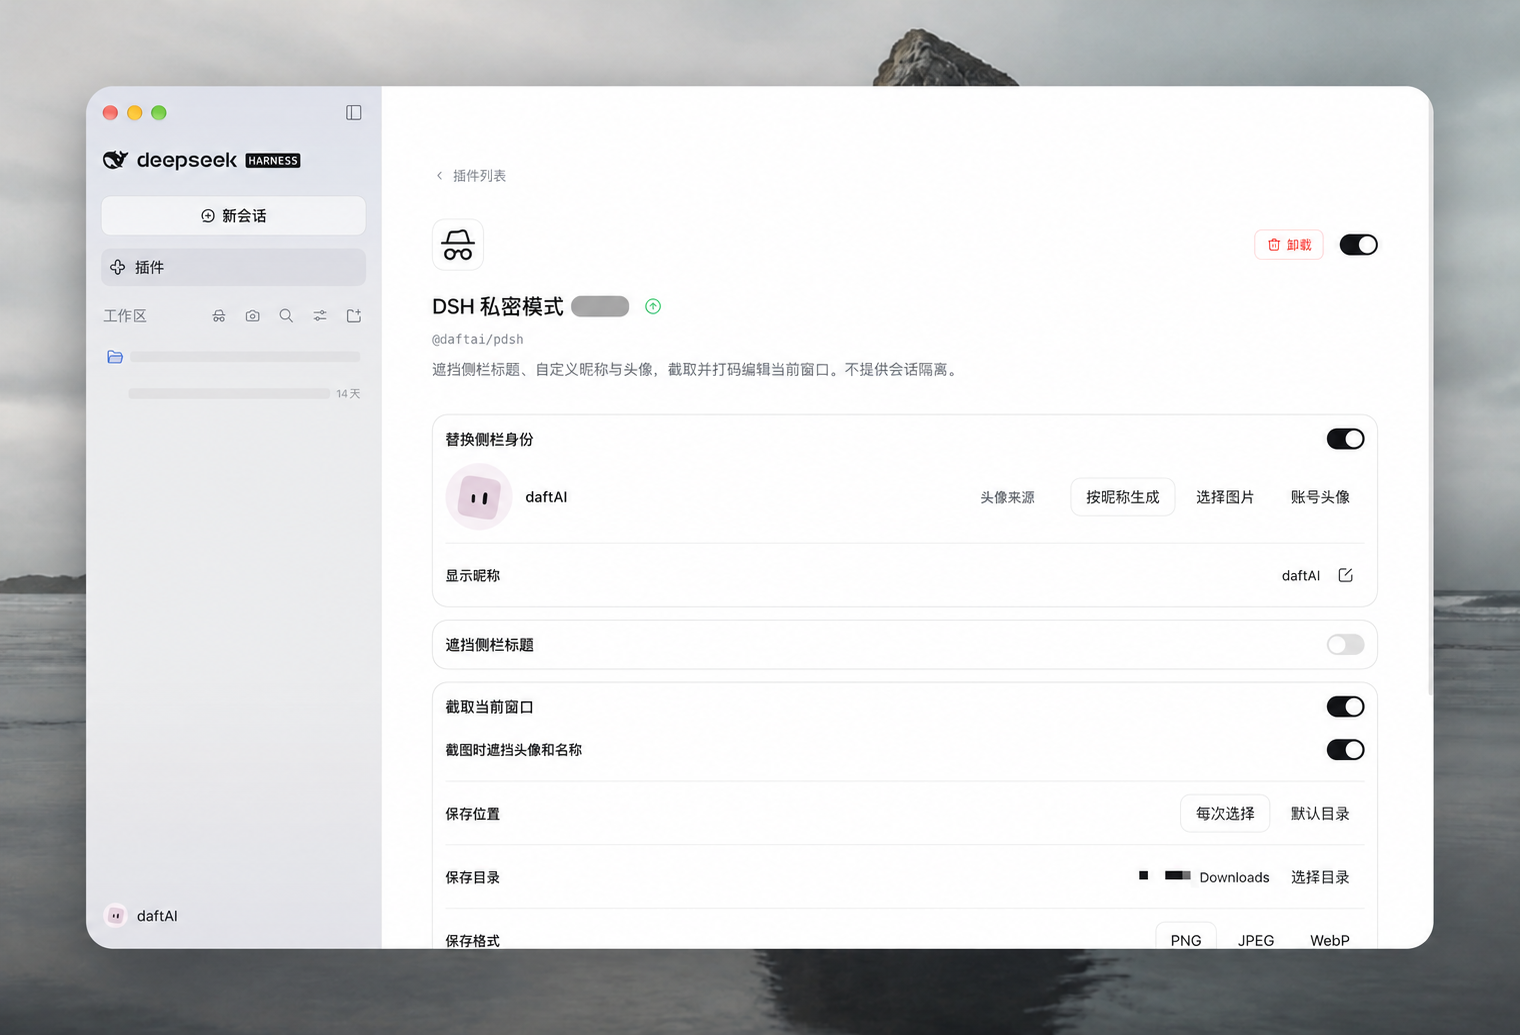
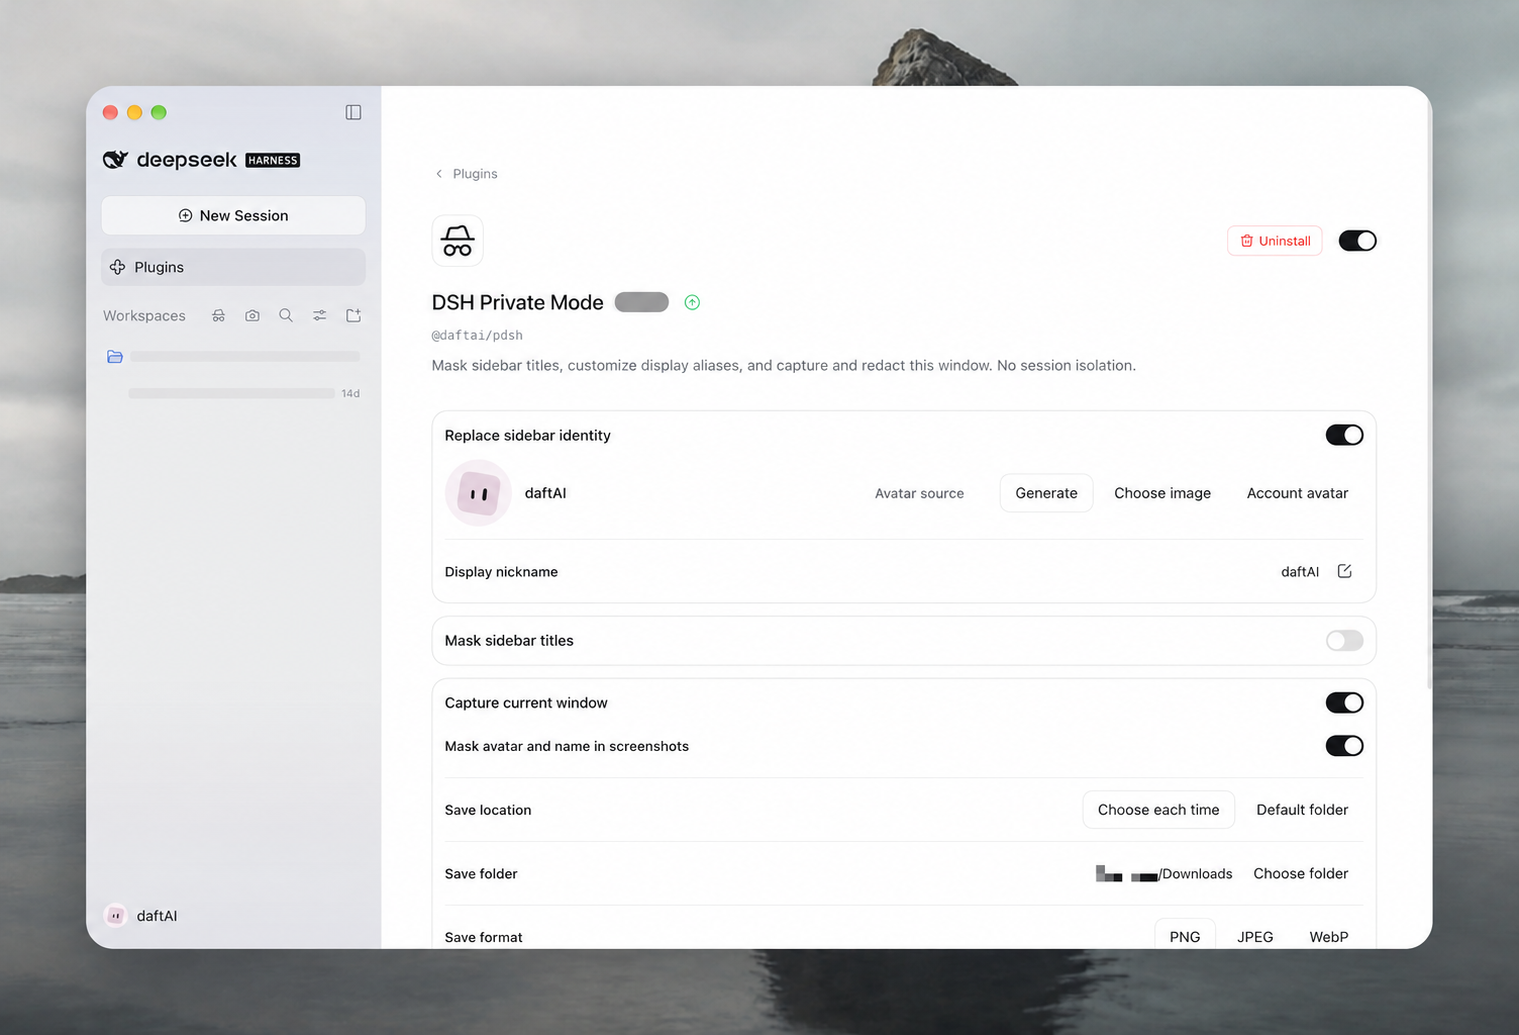
docs: 修正双语展示图并遮挡版本胶囊

diff --git a/docs/CLAUDE.md b/docs/CLAUDE.md
@@ -1,7 +1,8 @@
 # docs/
 > L2 | 父级: ../CLAUDE.md
 
-- `preview.jpg`: 用户提供并明确用于 README 的插件设置/侧栏展示图，原字节保留；不是精确版本或原生打码落点验收证据，不随运行包分发。
-- `preview-en.png`: 英文 README 的用户授权展示图。版本胶囊已打码，图内中文保留；图像工具重采样为 1520×1035。不作版本验收证据，不随运行包分发。
+- `preview.jpg`: 历史中文展示图。保留原字节，供旧 tag 的 README 链接访问。
+- `preview-zh.png`: 中文 README 的用户授权展示图。保留中文界面，遮挡版本胶囊；图像工具输出为 1520×1035。不作版本验收证据，不随运行包分发。
+- `preview-en.png`: 英文 README 的用户授权展示图。保留英文界面，遮挡版本胶囊；图像工具输出为 1519×1035。不作版本验收证据，不随运行包分发。
 
 [PROTOCOL]: 变更时更新此头部，然后检查 CLAUDE.md

diff --git a/README.md b/README.md
@@ -16,7 +16,7 @@ DeepSeek Harness Desktop 插件 · **0.5.6 版本** · [`v0.5.6`](https://github
 
 支持 macOS 和 Windows，截图助手随插件提供，无需单独安装。
 
-![插件设置与侧栏效果示例](https://raw.githubusercontent.com/daftAI2026/PDSH/main/docs/preview.jpg)
+![插件设置与侧栏效果示例](https://raw.githubusercontent.com/daftAI2026/PDSH/main/docs/preview-zh.png)
 
 ## 功能
 
